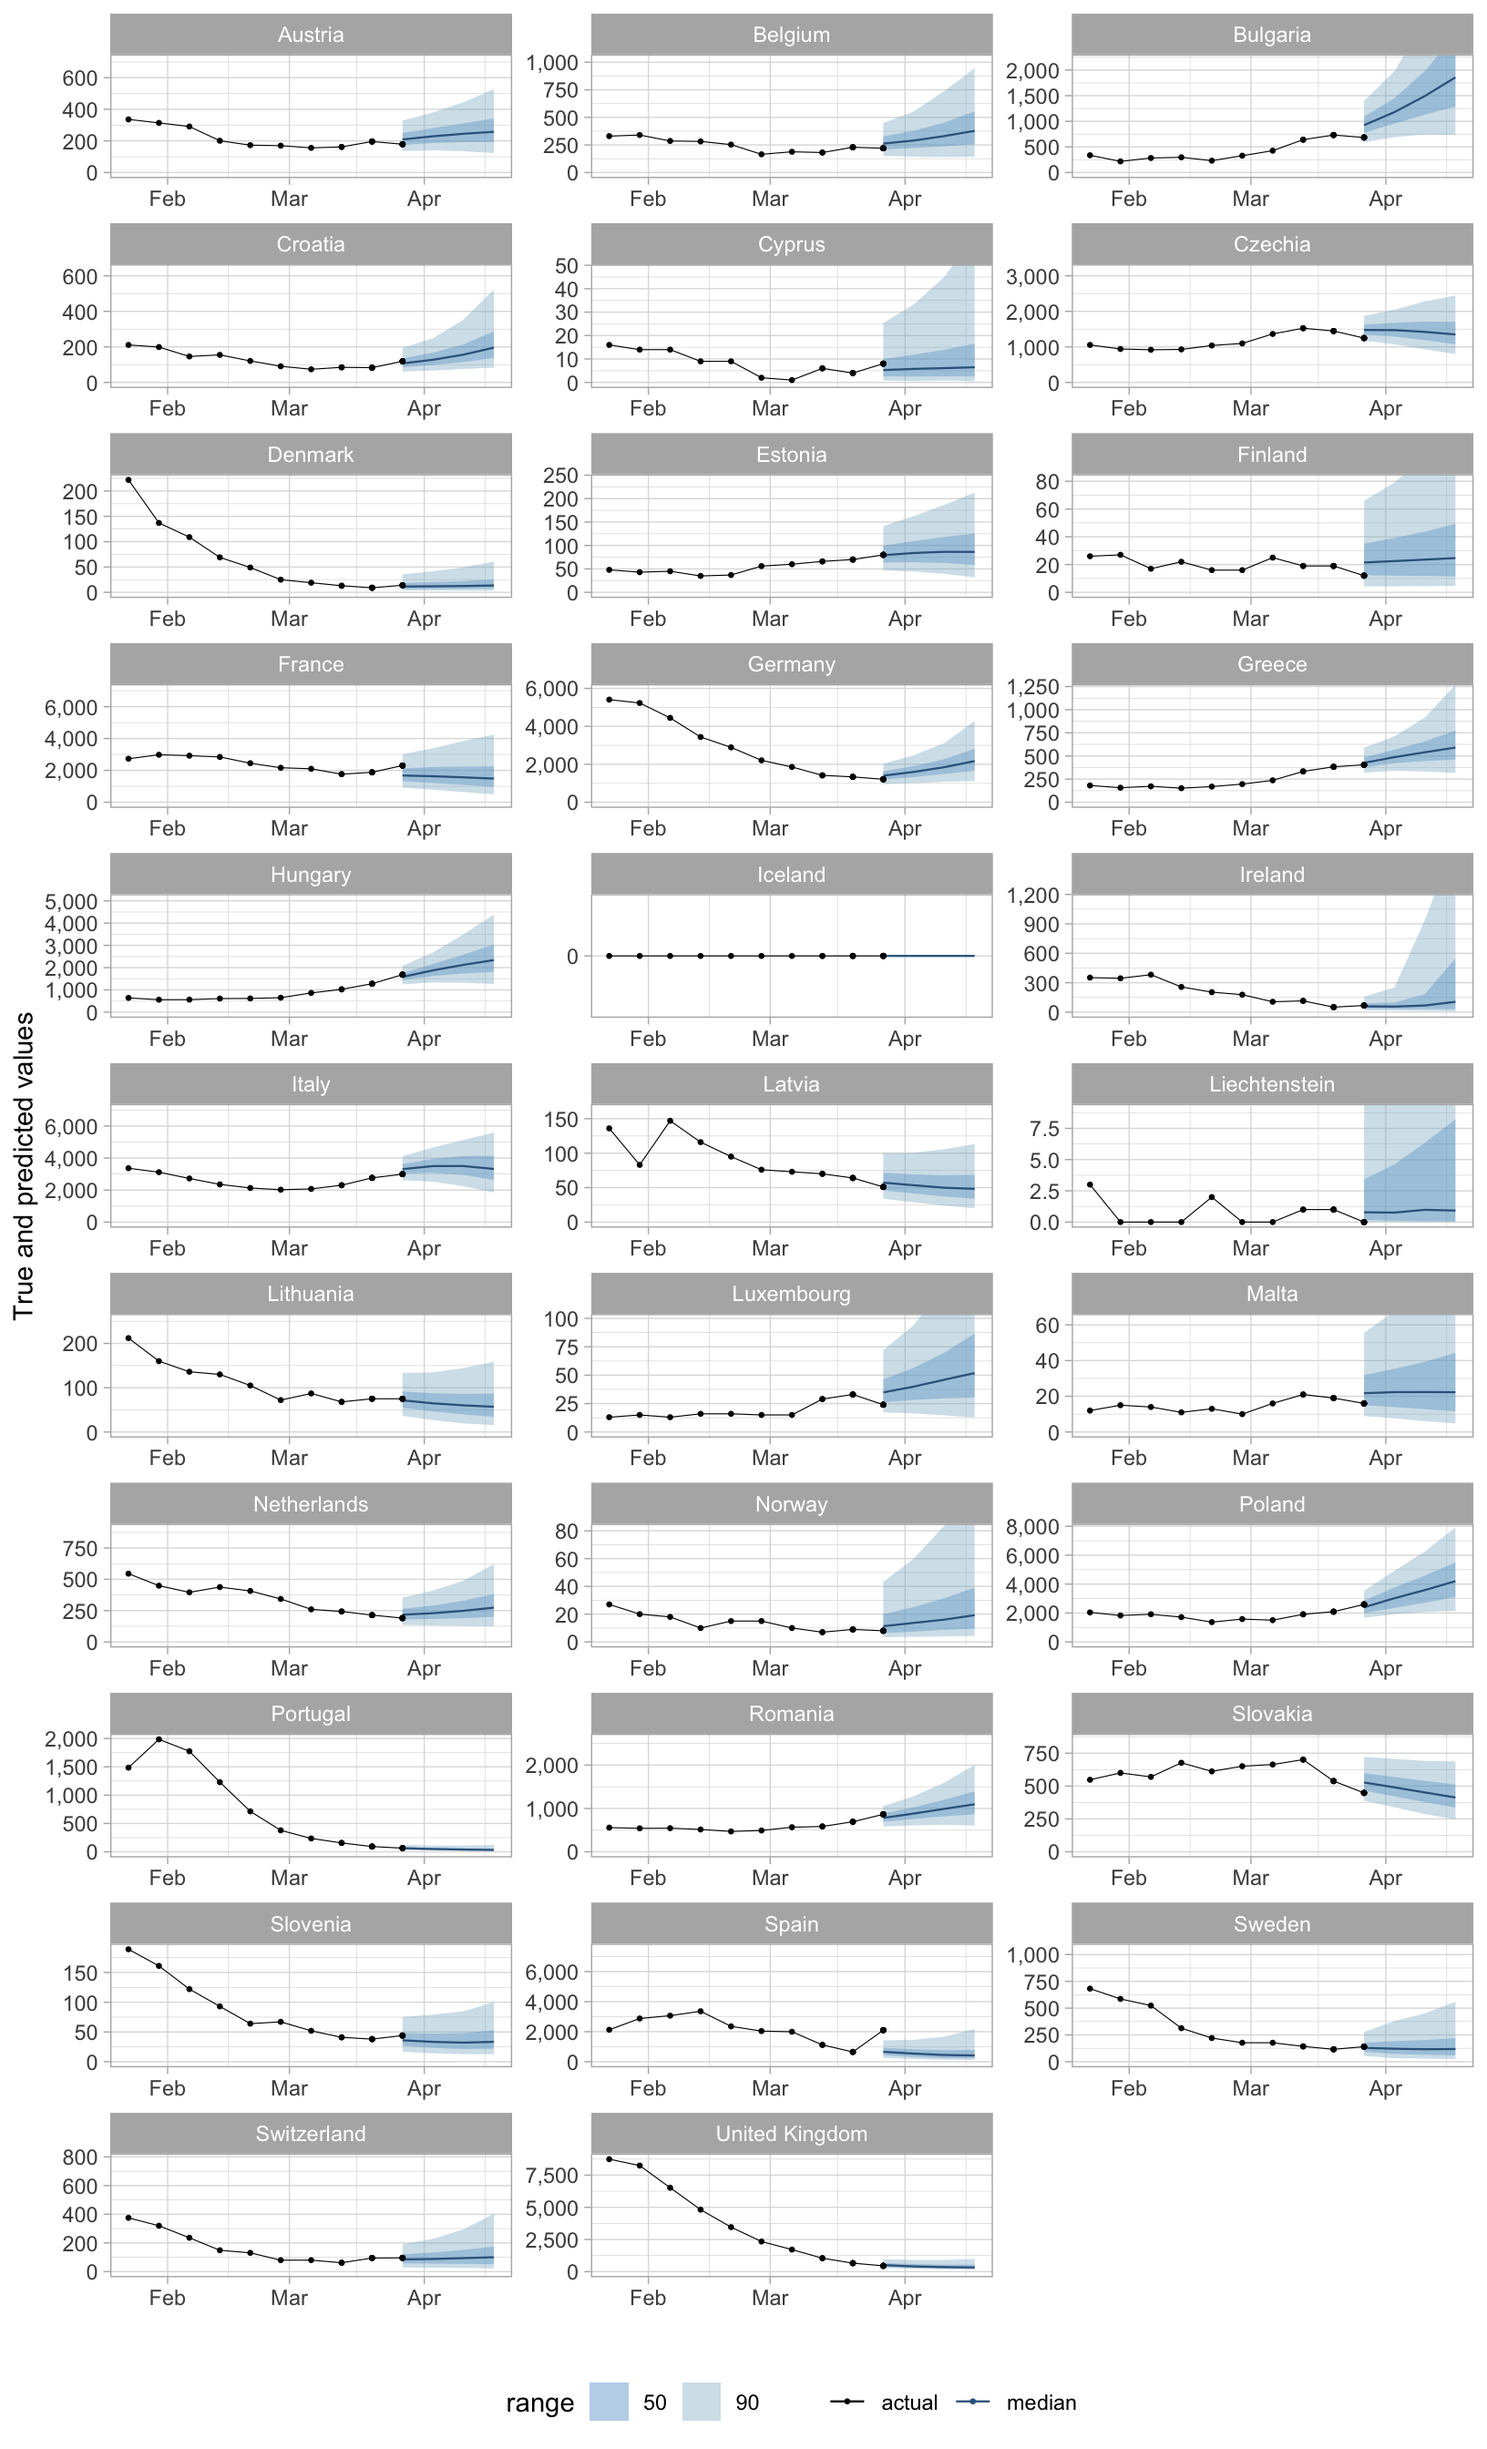
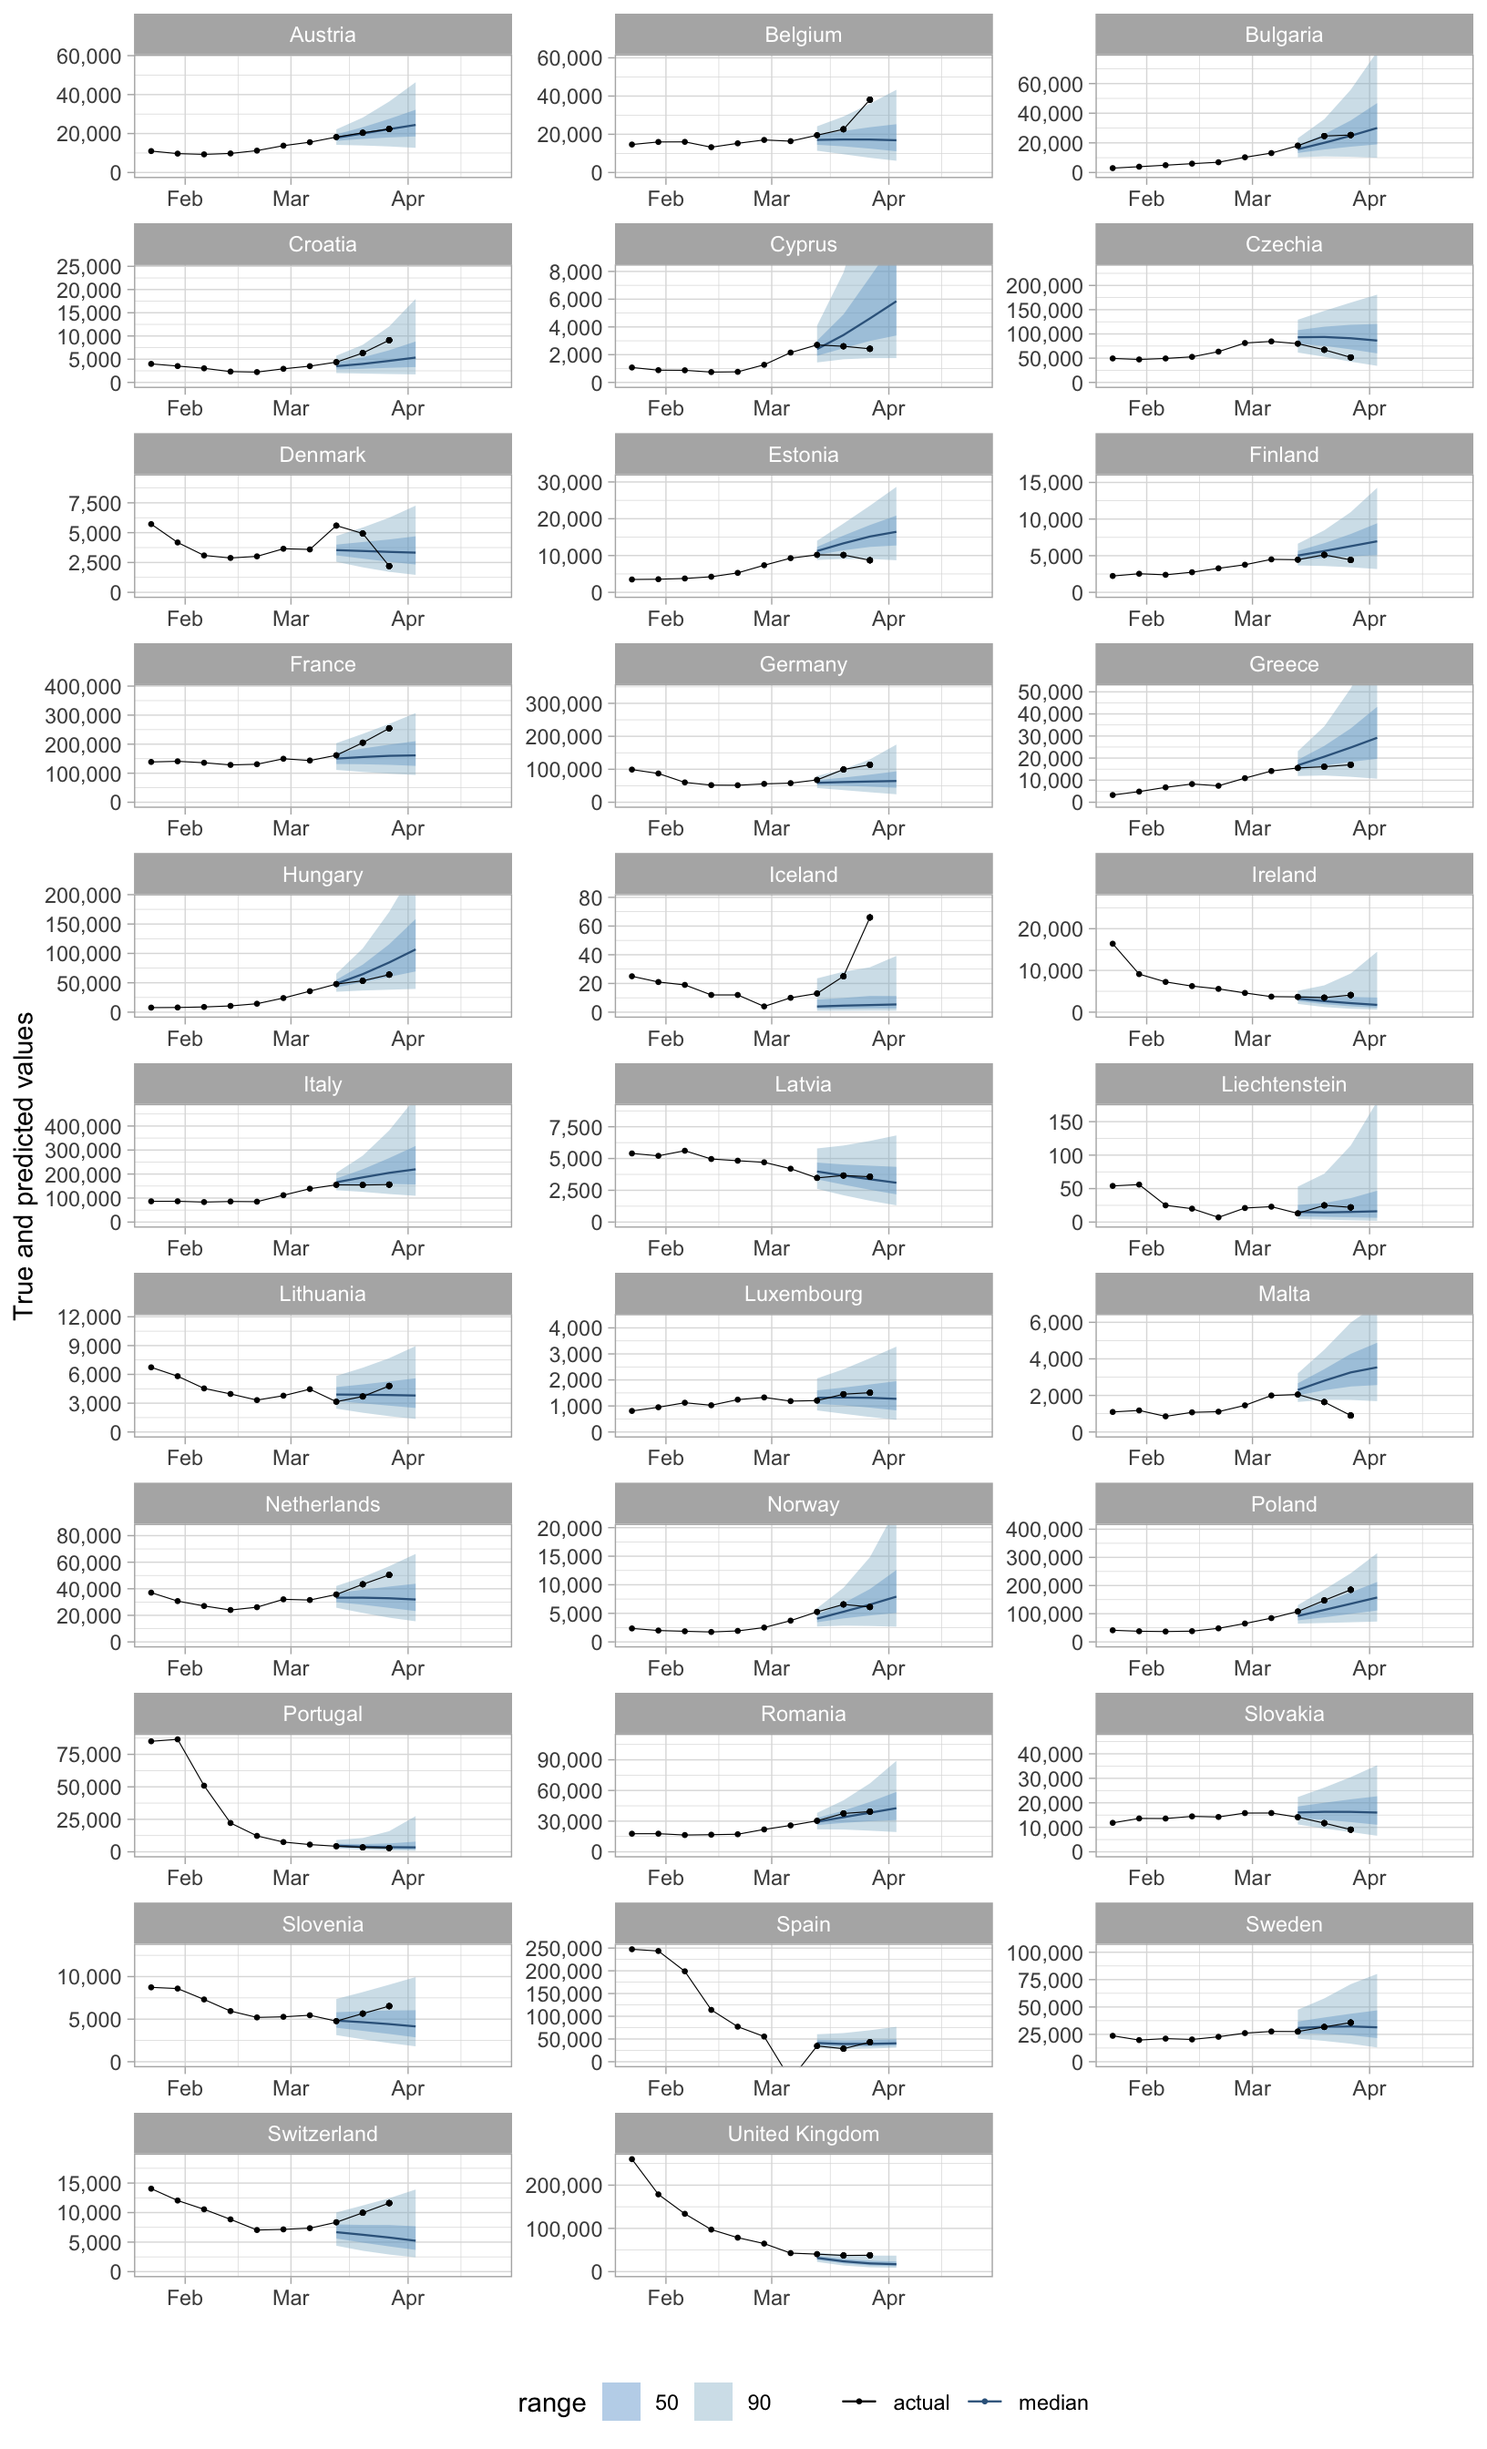
report update

Changed region(s): [[0.0312, 0.0, 1.0, 0.9375], [0.3438, 0.9688, 0.5, 1.0]]

diff --git a/docs/ensemble-report-2021-03-29.html b/docs/ensemble-report-2021-03-29.html
@@ -252,32 +252,40 @@ div.tocify {
 <h1 class="tabset tabset-fade">Forecast visualisation</h1>
 <div id="cases" class="section level2 tabset tabset-fade tabset-dropdown">
 <h2 class="tabset tabset-fade tabset-dropdown">Cases</h2>
+<div id="this-week" class="section level3">
+<h3>This week</h3>
+<p><img src="ensemble-report-2021-03-29_files/figure-html/prediction-plots-1.png" width="816" /></p>
+</div>
 <div id="week-ago" class="section level3">
 <h3>1 week ago</h3>
-<p><img src="ensemble-report-2021-03-29_files/figure-html/prediction-plots-1.png" width="816" /></p>
+<p><img src="ensemble-report-2021-03-29_files/figure-html/prediction-plots-2.png" width="816" /></p>
 </div>
 <div id="weeks-ago" class="section level3">
 <h3>2 weeks ago</h3>
-<p><img src="ensemble-report-2021-03-29_files/figure-html/prediction-plots-2.png" width="816" /></p>
+<p><img src="ensemble-report-2021-03-29_files/figure-html/prediction-plots-3.png" width="816" /></p>
 </div>
 <div id="weeks-ago-1" class="section level3">
 <h3>3 weeks ago</h3>
-<p><img src="ensemble-report-2021-03-29_files/figure-html/prediction-plots-3.png" width="816" /></p>
+<p><img src="ensemble-report-2021-03-29_files/figure-html/prediction-plots-4.png" width="816" /></p>
 </div>
 </div>
 <div id="deaths" class="section level2 tabset tabset-fade tabset-dropdown">
 <h2 class="tabset tabset-fade tabset-dropdown">Deaths</h2>
+<div id="this-week-1" class="section level3">
+<h3>This week</h3>
+<p><img src="ensemble-report-2021-03-29_files/figure-html/prediction-plots-5.png" width="816" /></p>
+</div>
 <div id="week-ago-1" class="section level3">
 <h3>1 week ago</h3>
-<p><img src="ensemble-report-2021-03-29_files/figure-html/prediction-plots-4.png" width="816" /></p>
+<p><img src="ensemble-report-2021-03-29_files/figure-html/prediction-plots-6.png" width="816" /></p>
 </div>
 <div id="weeks-ago-2" class="section level3">
 <h3>2 weeks ago</h3>
-<p><img src="ensemble-report-2021-03-29_files/figure-html/prediction-plots-5.png" width="816" /></p>
+<p><img src="ensemble-report-2021-03-29_files/figure-html/prediction-plots-7.png" width="816" /></p>
 </div>
 <div id="weeks-ago-3" class="section level3">
 <h3>3 weeks ago</h3>
-<p><img src="ensemble-report-2021-03-29_files/figure-html/prediction-plots-6.png" width="816" /></p>
+<p><img src="ensemble-report-2021-03-29_files/figure-html/prediction-plots-8.png" width="816" /></p>
 </div>
 </div>
 </div>
